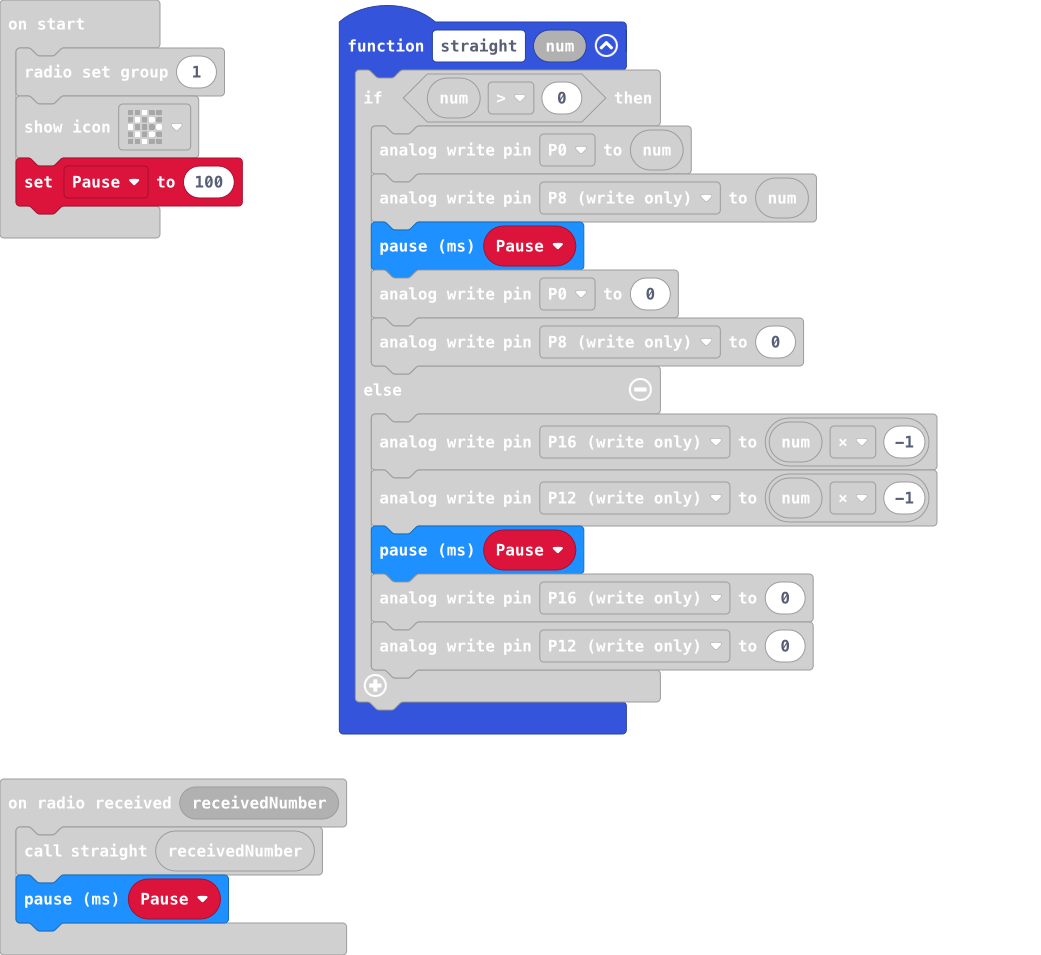
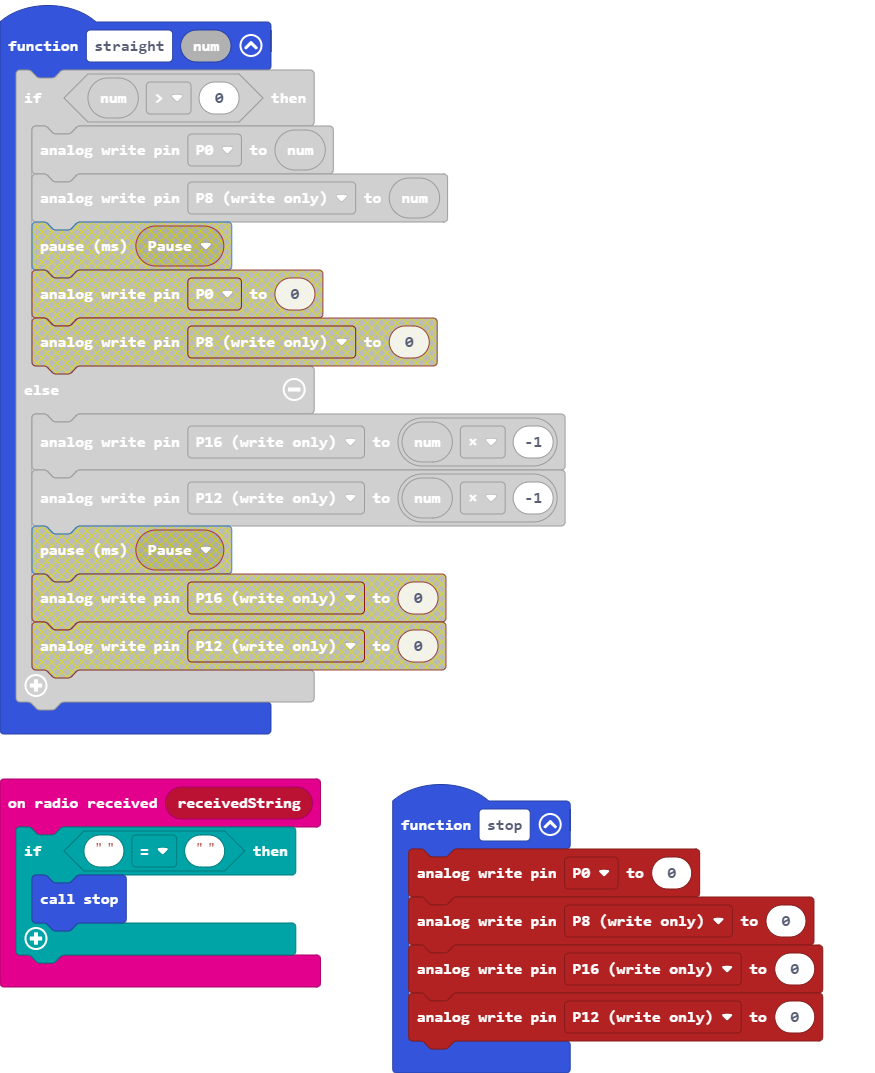
Update main.blocks, main.ts

diff --git a/main.ts b/main.ts
@@ -2,19 +2,24 @@ radio.onReceivedNumber(function (receivedNumber) {
     straight(receivedNumber)
     basic.pause(Pause)
 })
+function stop () {
+    pins.analogWritePin(AnalogPin.P0, 0)
+    pins.analogWritePin(AnalogPin.P8, 0)
+    pins.analogWritePin(AnalogPin.P16, 0)
+    pins.analogWritePin(AnalogPin.P12, 0)
+}
+radio.onReceivedString(function (receivedString) {
+    if ("" == "") {
+        stop()
+    }
+})
 function straight (num: number) {
     if (num > 0) {
         pins.analogWritePin(AnalogPin.P0, num)
         pins.analogWritePin(AnalogPin.P8, num)
-        basic.pause(Pause)
-        pins.analogWritePin(AnalogPin.P0, 0)
-        pins.analogWritePin(AnalogPin.P8, 0)
     } else {
         pins.analogWritePin(AnalogPin.P16, num * -1)
         pins.analogWritePin(AnalogPin.P12, num * -1)
-        basic.pause(Pause)
-        pins.analogWritePin(AnalogPin.P16, 0)
-        pins.analogWritePin(AnalogPin.P12, 0)
     }
 }
 let Pause = 0
